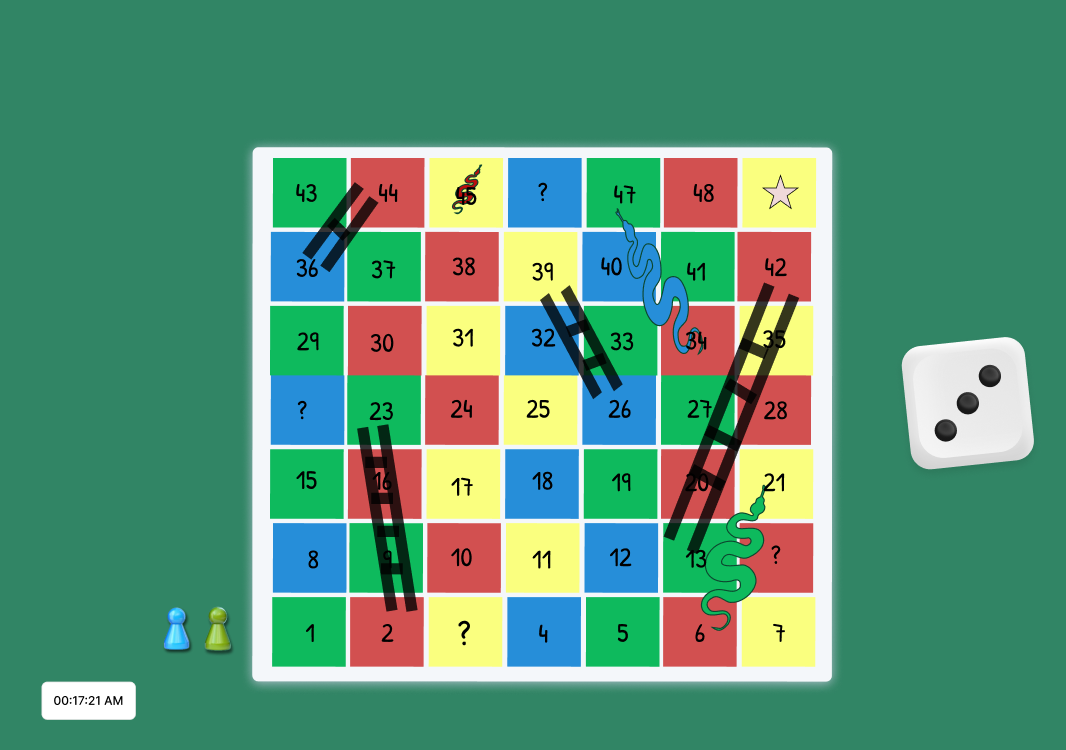
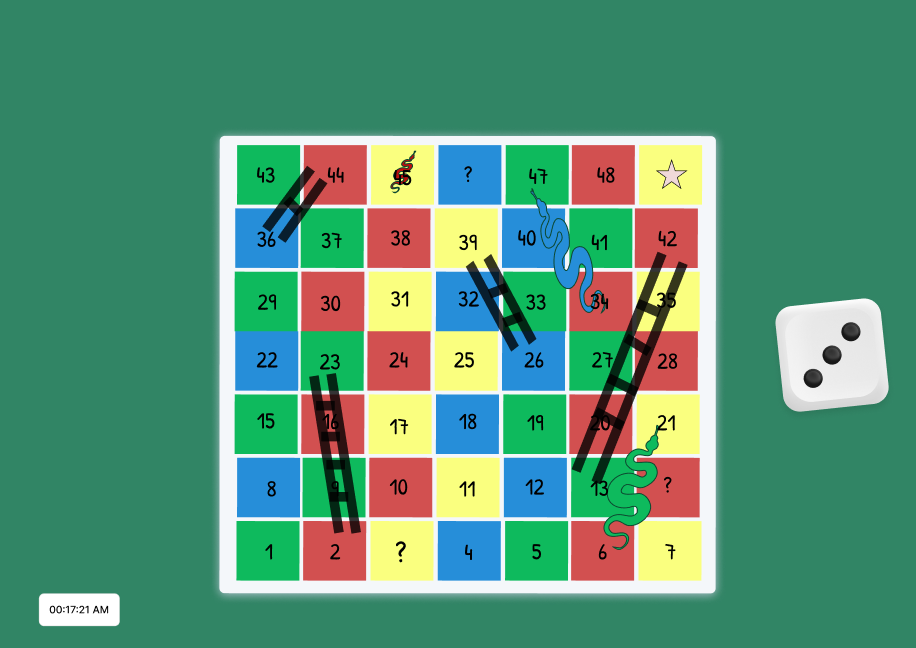
easy with 2 players done

diff --git a/src/View/BoardEasyView2Players.java b/src/View/BoardEasyView2Players.java
@@ -17,6 +17,7 @@ import Model.Game;
 import Model.Ladder;
 import Model.Player;
 import Model.Snake;
+import Model.Square;
 
 import javax.swing.JLabel;
 import javax.swing.JOptionPane;
@@ -24,6 +25,7 @@ import javax.swing.JOptionPane;
 import java.awt.Component;
 import java.awt.Container;
 import java.awt.Font;
+import java.awt.GridLayout;
 import java.awt.event.ActionEvent;
 import java.awt.event.ActionListener;
 import java.util.HashMap;
@@ -34,126 +36,91 @@ import java.util.Map;
 import javax.swing.BorderFactory;
 import javax.swing.ImageIcon;
 import javax.swing.JButton;
+import java.awt.SystemColor;
 
 public class BoardEasyView2Players extends JFrame {
 
 	private static final long serialVersionUID = 1L;
 	private JPanel contentPane;
-    private Map<Player, Integer> playerRolls;
 	private Game game;
 	private Player currentPlayer;
 	private int currentPlayerIndex;
-	private final int cellWidth = 100; // Width of each square cell in pixels
-	private final int cellHeight = 100;
     private int rollResult;
-    private Map<Player, JLabel> playerTokenMap = new HashMap<>();
 	private JButton diceButton;
 	private JLabel currentPlayerLabel;
 	private JTextPane txtpnHi;
 
+
 	public BoardEasyView2Players(Game game ) {
-        playerRolls = new LinkedHashMap<>();
 		this.currentPlayer=game.getCurrentPlayer();
 		this.game=game;
 		setDefaultCloseOperation(JFrame.EXIT_ON_CLOSE);
-		setBounds(100, 100, 1050, 700);
+		setBounds(100, 100, 900, 670);
 		contentPane = new JPanel();
 		contentPane.setBorder(new EmptyBorder(5, 5, 5, 5));
 		// Add this inside the constructor
 		currentPlayerLabel = new JLabel("");
-		currentPlayerLabel.setFont(new Font("Tahoma", Font.BOLD, 18));
-		currentPlayerLabel.setBounds(20, 20, 300, 50); 
+		currentPlayerLabel.setForeground(java.awt.Color.ORANGE);
+		currentPlayerLabel.setFont(new Font("Segoe Script", Font.BOLD | Font.ITALIC, 35));
+		currentPlayerLabel.setBounds(20, 20, 450, 50); 
 		contentPane.add(currentPlayerLabel);
 		setContentPane(contentPane);
 		contentPane.setLayout(null);
-		 int playerIndex = 0;
-	        for (Player player : game.getPlayers()) {
-	            JLabel tokenLabel = null;
-	            if (playerIndex == 0 && player.getColor()==Color.GREEN) {
-	                tokenLabel = new JLabel(new ImageIcon(PlayerTurn.class.getResource("/images/greenplayer.png")));
-		            playerTokenMap.put(player, tokenLabel);
-	            } else if (playerIndex == 1 && player.getColor()==Color.BLUE) { 
-	                tokenLabel = new JLabel(new ImageIcon(PlayerTurn.class.getResource("/images/blueplayer.png")));;
-		            playerTokenMap.put(player, tokenLabel);
-	            } else if (playerIndex == 1 && player.getColor()==Color.GREEN) { 
-	                tokenLabel = new JLabel(new ImageIcon(PlayerTurn.class.getResource("/images/greenplayer.png")));;
-		            playerTokenMap.put(player, tokenLabel);
-	            } else if (playerIndex == 0 && player.getColor()==Color.BLUE) { 
-	                tokenLabel = new JLabel(new ImageIcon(PlayerTurn.class.getResource("/images/blueplayer.png")));;
-		            playerTokenMap.put(player, tokenLabel);
-	            }
-	            tokenLabel.setBounds(0, 0, cellWidth, cellHeight); 
-	            getContentPane().add(tokenLabel); 
-	            playerIndex++;
-	        }
+	       
 	         txtpnHi = new JTextPane();
-	        txtpnHi.setFont(new Font("David", Font.BOLD | Font.ITALIC, 27));
-	        txtpnHi.setForeground(new java.awt.Color(0, 0, 0));
-	        txtpnHi.setBackground(new java.awt.Color(255, 250, 250));
+	        txtpnHi.setFont(new Font("Sitka Text", Font.BOLD | Font.ITALIC, 21));
+	        txtpnHi.setForeground(new java.awt.Color(77, 151, 99));
+	        txtpnHi.setBackground(SystemColor.inactiveCaption);
 	        
-	        txtpnHi.setBounds(10, 202, 180, 239);
+	        txtpnHi.setBounds(10, 180, 190, 200);
 	        contentPane.add(txtpnHi);
 	      
 		 diceButton = new JButton("");
         diceButton.setIcon(new ImageIcon(PlayerTurn.class.getResource("/images/dice 4.jpg")));
-		diceButton.setBounds(870, 240, 160, 160);
+		diceButton.setBounds(750, 270, 150, 145);
 		contentPane.add(diceButton);
    
         JLabel lblNewLabel = new JLabel("");
 
 		lblNewLabel.setIcon(new ImageIcon("C:\\Users\\Maria\\Downloads\\bardeasy2.png"));
-		lblNewLabel.setBounds(-17, -89, 1063, 752);
+		lblNewLabel.setBounds(-17, -89, 1000, 800);
 		contentPane.add(lblNewLabel);
 		startGame();
 		
 		
 	}
-	public void updatePlayerPosition(Player player, int x, int y) {
-	    JLabel playerToken = getPlayerToken(player);
-	    if (playerToken != null) {
-	        // Calculate new pixel positions
-	        int pixelX = calculatePixelX(x);
-	        int pixelY = calculatePixelY(y);
-	        playerToken.setBounds(pixelX, pixelY, playerToken.getWidth(), playerToken.getHeight());
-	        
-	        System.out.println(player.getName() + " moves to X: " + x + " Y: " + y + " (PixelX: " + pixelX + ", PixelY: " + pixelY + ")");
-	    } else {
-	        System.err.println("Token not found for player: " + player.getName());
+	private void advanceToNextPlayer() {
+	    currentPlayerIndex = (currentPlayerIndex + 1) % game.getPlayers().size();
+	    currentPlayer = game.getPlayers().get(currentPlayerIndex);
+	    
+	    displayCurrentPlayer(); 
+	    enableDiceRollForCurrentPlayer(); 
+	}
+
+	private void enableDiceRollForCurrentPlayer() {
+	    for (ActionListener al : diceButton.getActionListeners()) {
+	        diceButton.removeActionListener(al);
 	    }
+
+	    diceButton.addActionListener(new ActionListener() {
+	        @Override
+	        public void actionPerformed(ActionEvent arg0) {
+	            diceButton.setEnabled(false);
+	            performDiceRollAndMove();
+	        }
+	    });
+
+	    diceButton.setEnabled(true);
+	}
+	public void updatePlayerPosition(Player player, int x, int y) {
+	    
+	        
+	        System.out.println(player.getName() + " moves to X: " + x + " Y: " + y );
+	    
 
 	    contentPane.revalidate();
 	    contentPane.repaint();
 	}
-
-
-	private JLabel getPlayerToken(Player player) {
-	    return playerTokenMap.get(player);
-	}
-
-	private int calculatePixelX(int boardX) {
-	    return boardX * cellWidth;
-	}
-
-	private int calculatePixelY(int boardY) {
-	    return boardY * cellHeight;
-	}
-
-	
-
-private void updateCurrentPlayerDisplay(Player currentPlayer) {
-    String bluePlayerIconPath = "/images/blueplayer.png";
-    String greenPlayerIconPath = "/images/greenplayer.png";
-
-    for (Map.Entry<Player, JLabel> entry : playerTokenMap.entrySet()) {
-        Player player = entry.getKey();
-        JLabel tokenLabel = entry.getValue();
-        System.out.println("LABLE"+tokenLabel);
-        ImageIcon icon = new ImageIcon(getClass().getResource(
-            player.getColor() == Color.GREEN ? greenPlayerIconPath:bluePlayerIconPath ));
-        tokenLabel.setIcon(icon);
-    }
-    this.repaint(); 
-}
 	private void updateBoardView() {
 	    currentPlayer = game.getCurrentPlayer();
 
@@ -176,9 +143,14 @@ private void updateCurrentPlayerDisplay(Player currentPlayer) {
 	    rollResult = game.getDice().rollForEasy();
 	    ImageIcon diceIcon = new ImageIcon(getClass().getResource("/images/dice " + rollResult + ".jpg"));
 	    diceButton.setIcon(diceIcon);
+	    
+	    // Show popup with dice roll result
+	    JOptionPane.showMessageDialog(this, currentPlayer.getName() + " rolled a " + rollResult, "Dice Roll", JOptionPane.INFORMATION_MESSAGE);
+	    
 	    movePlayer(currentPlayer, rollResult);
 	    checkForSnakesAndLadders(currentPlayer);
 	    updateBoardView();
+	    displayPlayerPositions(); // Update the display of player positions
 
 	    if (hasPlayerWon(currentPlayer)) {
 	        endGame(currentPlayer);
@@ -186,6 +158,33 @@ private void updateCurrentPlayerDisplay(Player currentPlayer) {
 	        advanceToNextPlayer();
 	    }
 	}
+	private void displayPlayerPositions() {
+	    StringBuilder positionsText = new StringBuilder();
+	    for (Player player : game.getPlayers()) {
+	        positionsText.append(player.getName()).append("on sqaure: ").append(player.getPosition()).append("\n");
+	    }
+	    txtpnHi.setText(positionsText.toString());
+	    contentPane.revalidate();
+	    contentPane.repaint();
+	}
+	public void startGame() {
+	    initializePlayerPositions();
+	    rollDiceAndMovePlayer(); 
+	}
+
+	private void initializePlayerPositions() {
+	    StringBuilder positionsText = new StringBuilder();
+	    for (Player player : game.getPlayers()) {
+	        // Assuming the game starts with all players on square 1.
+	        player.setPosition(1);
+	        positionsText.append(player.getName()).append(" on square: ").append(player.getPosition()).append("\n");
+	    }
+	    txtpnHi.setText(positionsText.toString());
+	    contentPane.revalidate();
+	    contentPane.repaint();
+	}
+
+
 	private boolean hasPlayerWon(Player player) {
 	    int maxPosition = game.getBoard().getSize() * game.getBoard().getSize();
 	    return player.getPosition() >= maxPosition;
@@ -195,17 +194,6 @@ private void updateCurrentPlayerDisplay(Player currentPlayer) {
 	    currentPlayer = game.getCurrentPlayer();
 	    displayCurrentPlayer(); // Display the current player's name
 	    enableDiceRollForCurrentPlayer();
-	}
-
-	private void enableDiceRollForCurrentPlayer() {
-	    diceButton.setEnabled(true); // Enable the dice button for the current player
-	    diceButton.addActionListener(new ActionListener() {
-	        @Override
-	        public void actionPerformed(ActionEvent arg0) {
-	            diceButton.setEnabled(false); // Disable the button to prevent multiple rolls
-	            performDiceRollAndMove();
-	        }
-	    });
 	}
 
 	private void endGame(Player winner) {
@@ -236,40 +224,17 @@ private void updateCurrentPlayerDisplay(Player currentPlayer) {
 	                break;
 	            }
 	        }
+	        for (Square q : game.getBoard().getQuestions()) {
+	            if (player.getPosition() == Integer.parseInt(q.getValue()) ) {
+	    	        System.out.println("square question here");///question
+	                break;
+	            }}
 	    }
-	    private void advanceToNextPlayer() {
-	        currentPlayerIndex = (currentPlayerIndex + 1) % game.getPlayers().size();
-	        currentPlayer = game.getPlayers().get(currentPlayerIndex);
-	        
-	        updateCurrentPlayerDisplay(currentPlayer);
-	        displayCurrentPlayer(); 
-	        
-	        diceButton.setEnabled(true); 
-	    }
-
 	    private void displayCurrentPlayer() {
 	        if (currentPlayer != null) {
-	            currentPlayerLabel.setText("Current Player: " + currentPlayer.getName());
+	            currentPlayerLabel.setText("Player Turn: " + currentPlayer.getName());
+	            setTitle("Current Player: " + currentPlayer.getName() + "'s Turn");
 	        }
 	    }
 
-	    public void startGame() {
-	        rollDiceAndMovePlayer(); 
-	    }
-	    private void displayRollsInTextPane(JTextPane textPane, Map<Player, Integer> rolls) {
-	        StyledDocument doc = textPane.getStyledDocument();
-	        textPane.setText(""); // Clear previous text
-	        for (Map.Entry<Player, Integer> entry : rolls.entrySet()) {
-	            Player player = entry.getKey();
-	            Integer rollResult = entry.getValue();
-	            String playerRollText = player.getName() + " rolled a " + rollResult + "\n";
-	            try {
-	                doc.insertString(doc.getLength(), playerRollText, null); // Append roll result for each player
-	            } catch (BadLocationException e) {
-	                e.printStackTrace();
-	            }
-	        }
-	    }
-
-	  
 }

diff --git a/src/Model/Board.java b/src/Model/Board.java
@@ -10,6 +10,7 @@ public class Board {
     private Square[][] cells;
     private Snake[] snakes;
     private Ladder[] ladders;
+    private Square[] questions;
 //  Singleton Instance
 	public static Board getInstance(int size) {
 		if (instance == null) {
@@ -24,6 +25,7 @@ public class Board {
         	this.cells = new Square[7][7];
             this.snakes = new Snake[4];
             this.ladders = new Ladder[4];
+            this.questions=new Square[3];
             initializeSnakesAndLaddersForEasy();
         }
         else if (size==10) {
@@ -53,9 +55,9 @@ public class Board {
     	    ladders[2] = new Ladder(new Square(6,1 , "2"),new Square(3,1 , "23" ));//3
     	    ladders[3] = new Ladder(new Square(5, 5,"13" ),new Square(1,6 ,"42"));//4
     	    
-    	    Square q1=new Square(6, 2, "3");
-    	    Square q2=new Square(5, 6, "14");
-    	    Square q3=new Square(0, 3, "46");
+    	    questions[0]=new Square(6, 2, "3");
+    	    questions[1]=new Square(5, 6, "14");
+    	    questions[2]=new Square(0, 3, "46");
     	    int counter=1;    
     	    for (int i=6;i>=0;i--)
     	    {
@@ -198,6 +200,14 @@ public class Board {
 
 	public void setLadders(Ladder[] ladders) {
 		this.ladders = ladders;
+	}
+
+	public Square[] getQuestions() {
+		return questions;
+	}
+
+	public void setQuestions(Square[] questions) {
+		this.questions = questions;
 	}
 
 
